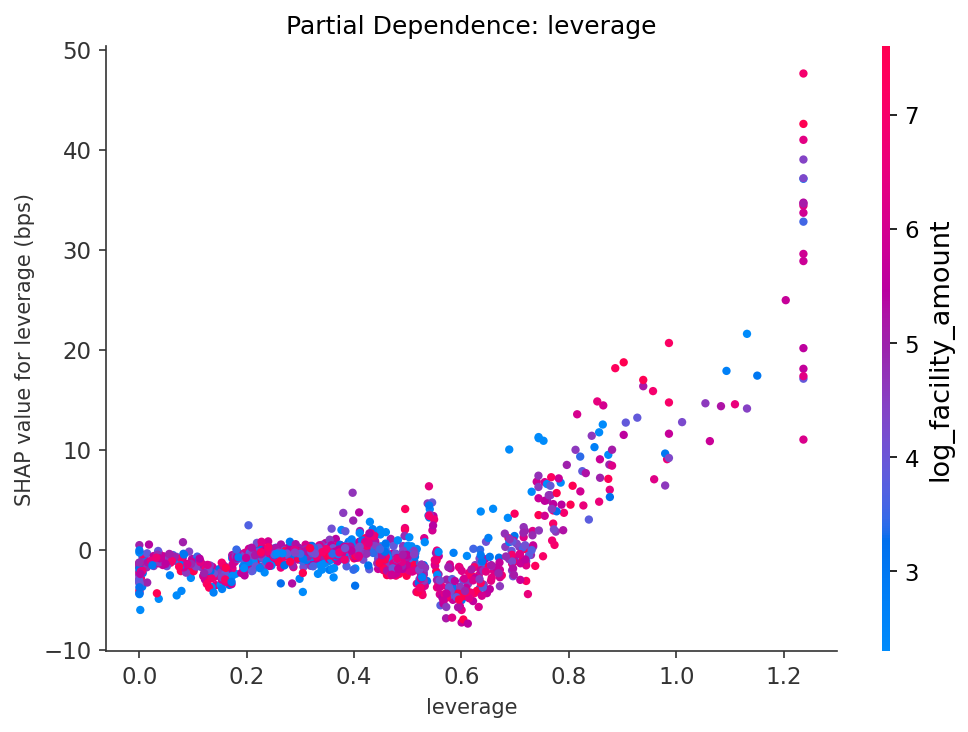
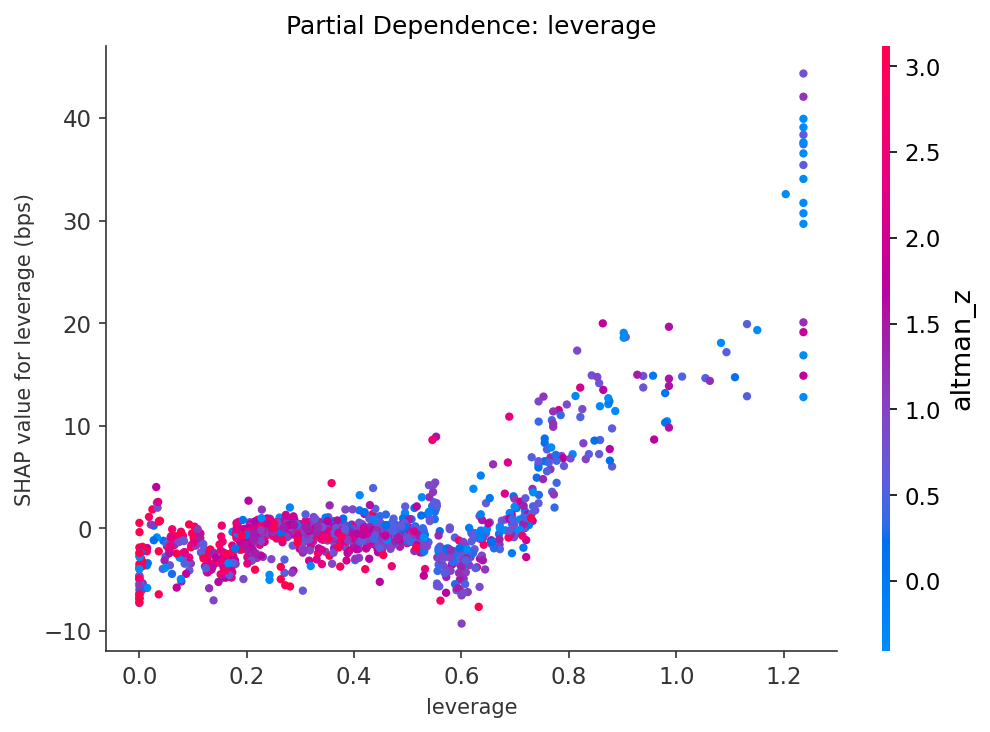
Refresh results and SHAP figures after Altman X4 fix; correct feature-importance claim
Re-ran wrds_merge -> features -> model -> shap_analysis against the
already-downloaded WRDS extracts (no new pull needed, since only the
Altman formula changed, not the raw data). results/model_metrics.csv
and figures/*.png now reflect the current altman_z definition.

Also rewrote the SHAP interpretation in the README: the "leverage
ranks first in feature importance" claim was checked against both the
old and newly regenerated bar charts and is false in both -- loan
structural terms (log_facility_amount, collateral_flag, is_revolver)
dominate. Replaced with a description matching the actual plots, and
documented results/model_metrics.csv as a manually-reviewed copy of
the gitignored data/raw/model_comparison.csv, kept separate so no
script writes WRDS-derived output directly into a tracked path.

diff --git a/README.md b/README.md
@@ -152,10 +152,18 @@ denote missing observations.
 ### 7. SHAP explainability
 
 `shap.TreeExplainer` is applied to the fitted XGBoost model on the held-out test set. SHAP
-values additively decompose each prediction into individual feature contributions. This
-provides model-agnostic interpretability; moreover, it allows direct verification that
-leverage, the theoretically dominant risk driver, ranks first in feature importance,
-lending credibility to the model's learned representation of credit risk.
+values additively decompose each prediction into individual feature contributions, without the
+sampling approximation that model-agnostic SHAP estimators require.
+
+By mean |SHAP value|, loan structural terms dominate: `log_facility_amount`, `collateral_flag`,
+and `is_revolver` rank above every borrower balance-sheet ratio, including `leverage` and
+`altman_z`. This is consistent with how syndicated loans are actually priced — facility size and
+security status map fairly directly onto the spread grid lenders quote — while credit-fundamental
+features contribute smaller, second-order effects on top of that structural baseline. The partial
+dependence plots below show those second-order effects are still directionally sensible: the SHAP
+contribution from leverage rises sharply above roughly 0.6–0.7, and the largest borrowers (highest
+`log_firm_size`) see a distinctly negative spread contribution — though firm size is not simply
+monotonic across the full range; the effect is concentrated at the top end.
 
 ![SHAP Summary](figures/shap_summary_beeswarm.png)
 
@@ -180,12 +188,12 @@ as XGBoost handles collinear inputs natively.
 
 | Model | RMSE (bps) | MAE (bps) | R² |
 |---|---|---|---|
-| OLS | 158.46 | 114.10 | 0.370 |
-| Lasso | 158.29 | 113.59 | 0.371 |
-| Ridge | 158.46 | 114.19 | 0.370 |
-| **XGBoost** | **148.24** | **104.48** | **0.448** |
+| OLS | 158.44 | 114.03 | 0.370 |
+| Lasso | 158.30 | 113.58 | 0.371 |
+| Ridge | 158.49 | 114.17 | 0.369 |
+| **XGBoost** | **148.03** | **103.86** | **0.450** |
 
-XGBoost achieves approximately a 6% reduction in RMSE relative to OLS, with R² = 0.45
+XGBoost achieves approximately a 7% reduction in RMSE relative to OLS, with R² = 0.45
 across a test period that encompasses COVID-era credit stress. The performance gap between
 XGBoost and the linear benchmarks reflects the contribution of
 non-linear interactions, particularly those between leverage and macro credit conditions,
@@ -290,9 +298,15 @@ python src/wrds_download.py
 ```bash
 python src/wrds_merge.py       # merges all sources → data/raw/panel.parquet
 python src/features.py         # engineers features → data/raw/features.parquet
-python src/model.py            # trains and evaluates all models
+python src/model.py            # trains and evaluates all models → data/raw/model_comparison.csv
 python src/shap_analysis.py    # generates SHAP figures → figures/
 ```
+
+`model.py` intentionally writes only to the gitignored `data/raw/` directory, never directly to a
+tracked path. `results/model_metrics.csv` is a manually reviewed copy of `data/raw/model_comparison.csv`,
+committed only after a human confirms it contains aggregate statistics and no data that WRDS's
+Subscriber Agreement restricts (see [COMPLIANCE.md](COMPLIANCE.md)). This is deliberate, not an
+oversight — no script in this repo writes directly into a version-controlled path.
 
 ### Step 4: Explore
 
